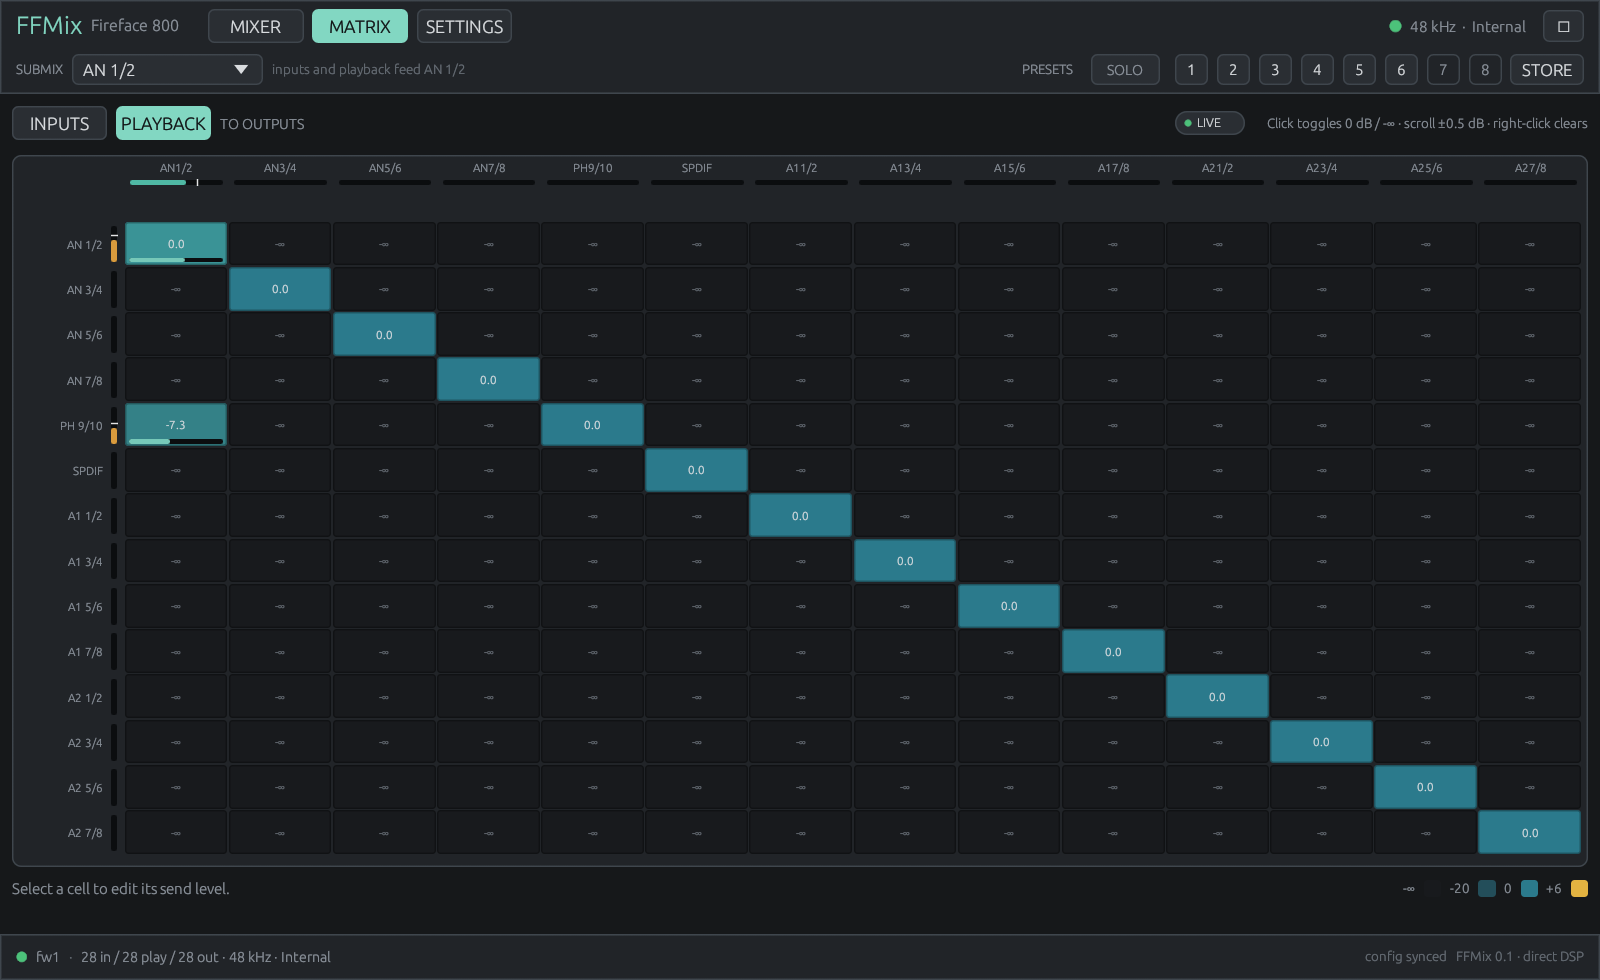
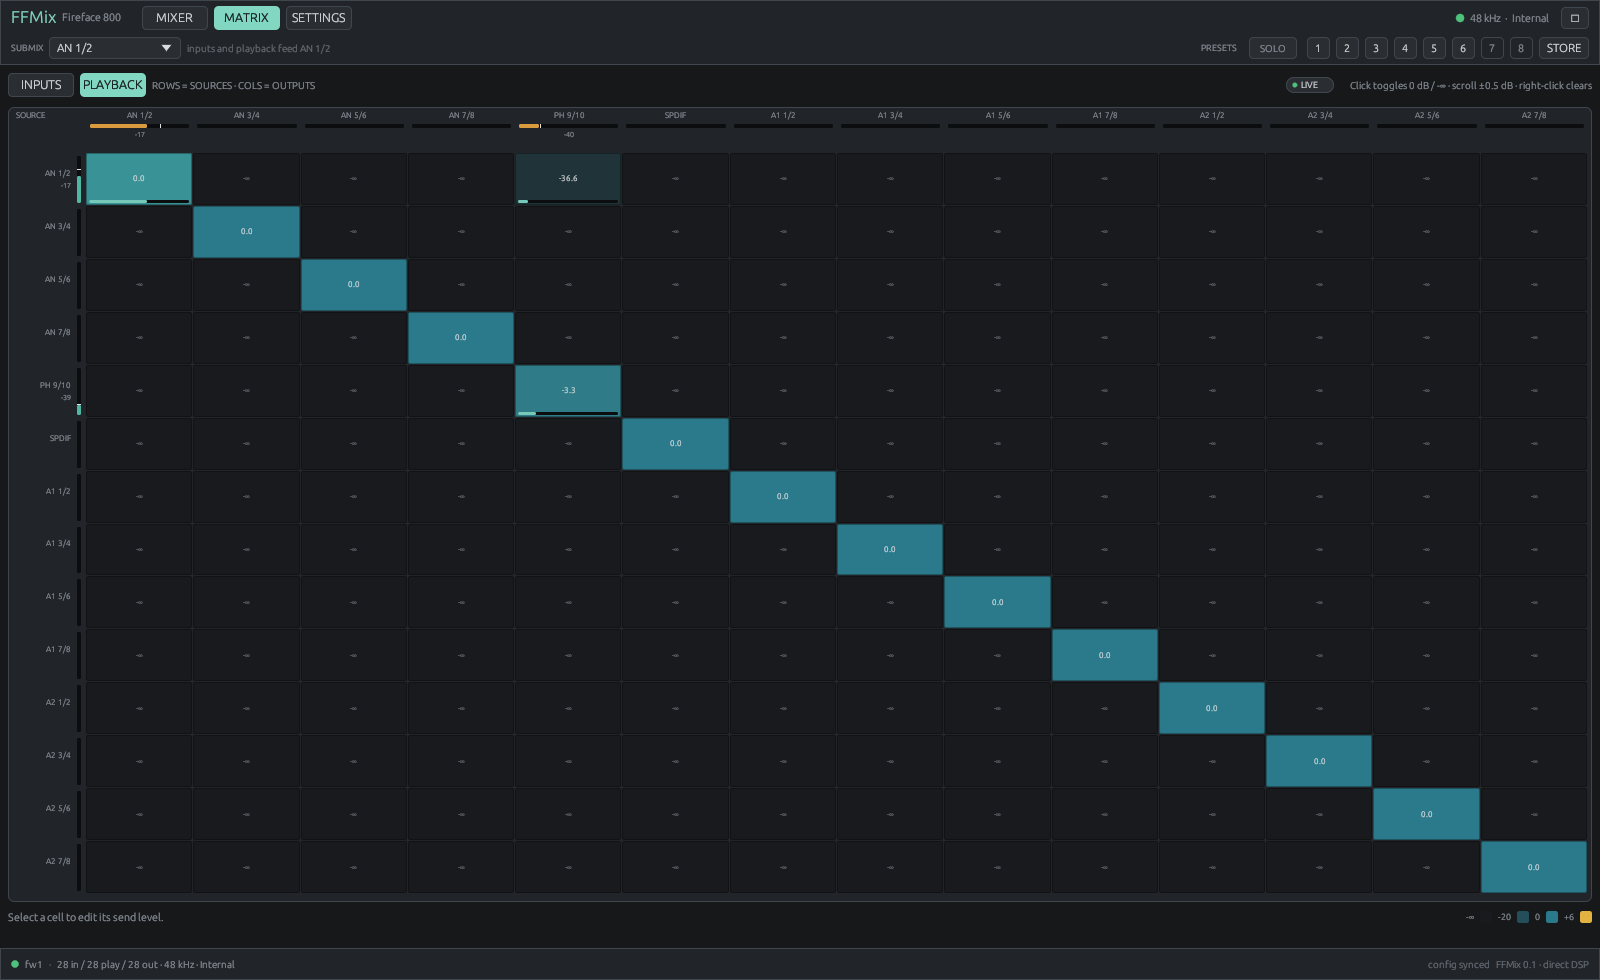
Fix matrix orientation and show source/output levels

diff --git a/src/app.rs b/src/app.rs
@@ -1103,7 +1103,11 @@ impl App {
                     self.mark_config();
                 }
             }
-            ui.label(egui::RichText::new("TO OUTPUTS").size(10.0).color(MUTED));
+            ui.label(
+                egui::RichText::new("ROWS = SOURCES · COLS = OUTPUTS")
+                    .size(10.0)
+                    .color(MUTED),
+            );
             ui.with_layout(egui::Layout::right_to_left(egui::Align::Center), |ui| {
                 ui.label(
                     egui::RichText::new("Click toggles 0 dB / -∞ · scroll ±0.5 dB · right-click clears")
@@ -1138,10 +1142,17 @@ impl App {
         painter.rect_filled(grid_rect, 6.0, PANEL);
         painter.rect_stroke(grid_rect, 6.0, Stroke::new(1.0_f32, BORDER), StrokeKind::Inside);
 
-        // column headers: source level, one bar per source pair
-        for p in 0..npairs {
-            let x = gx + p as f32 * cw;
-            let label = short_pair(self.matrix_kind, p);
+        // column headers: outputs, one level bar per output pair
+        painter.text(
+            Pos2::new(grid_rect.left() + 8.0, grid_rect.top() + 4.0),
+            Align2::LEFT_TOP,
+            "SOURCE",
+            FontId::proportional(8.0),
+            MUTED,
+        );
+        for op in 0..npairs {
+            let x = gx + op as f32 * cw;
+            let label = pair_label(Kind::Out, op);
             painter.text(
                 Pos2::new(x + cw * 0.5, grid_rect.top() + 4.0),
                 Align2::CENTER_TOP,
@@ -1149,54 +1160,23 @@ impl App {
                 FontId::proportional(8.0),
                 MUTED,
             );
-            let level = source_meters.level[2 * p].max(source_meters.level[2 * p + 1]);
-            let hold = source_meters.hold[2 * p].max(source_meters.hold[2 * p + 1]);
-            let clip = source_meters.clip[2 * p] || source_meters.clip[2 * p + 1];
-            let meter_rect = Rect::from_min_size(
-                Pos2::new(x + 4.0, grid_rect.top() + 17.0),
-                Vec2::new((cw - 8.0).max(6.0), 4.0),
-            );
-            draw_h_meter(&painter, meter_rect, level, hold, clip, source_color);
-            let resp = ui.interact(
-                meter_rect,
-                Id::new(("mx-src-meter", self.matrix_kind, p)),
-                Sense::click(),
-            );
-            if resp.clicked() {
-                match self.matrix_kind {
-                    Kind::In => self.meters.input.reset_pair(p),
-                    Kind::Play => self.meters.playback.reset_pair(p),
-                    Kind::Out => {}
-                }
-            }
-            if resp.hovered() {
-                resp.on_hover_text(format!(
-                    "{} source\nLevel  {}\nPeak  {}{}\nClick to reset peak",
-                    pair_label(self.matrix_kind, p),
-                    fmt_level(level),
-                    fmt_level(hold),
-                    if clip { "\nCLIP" } else { "" }
-                ));
-            }
-        }
-        // row headers: output level, one bar per output pair
-        for op in 0..npairs {
-            let y = gy + op as f32 * ch;
-            painter.text(
-                Pos2::new(gx - 15.0, y + ch * 0.5),
-                Align2::RIGHT_CENTER,
-                pair_label(Kind::Out, op),
-                FontId::proportional(8.2),
-                MUTED,
-            );
             let level = output_meters.level[2 * op].max(output_meters.level[2 * op + 1]);
             let hold = output_meters.hold[2 * op].max(output_meters.hold[2 * op + 1]);
             let clip = output_meters.clip[2 * op] || output_meters.clip[2 * op + 1];
             let meter_rect = Rect::from_min_size(
-                Pos2::new(gx - 9.0, y + 3.0),
-                Vec2::new(4.0, (ch - 6.0).max(6.0)),
+                Pos2::new(x + 4.0, grid_rect.top() + 17.0),
+                Vec2::new((cw - 8.0).max(6.0), 4.0),
             );
-            draw_v_meter(&painter, meter_rect, level, hold, clip, widgets::KIND_OUT);
+            draw_h_meter(&painter, meter_rect, level, hold, clip, widgets::KIND_OUT);
+            if cw >= 36.0 && level > 0.001 {
+                painter.text(
+                    Pos2::new(x + cw * 0.5, grid_rect.top() + 23.0),
+                    Align2::CENTER_TOP,
+                    fmt_level_short(level),
+                    FontId::proportional(7.0),
+                    MUTED,
+                );
+            }
             let resp = ui.interact(meter_rect, Id::new(("mx-out-meter", op)), Sense::click());
             if resp.clicked() {
                 self.meters.output.reset_pair(op);
@@ -1210,17 +1190,67 @@ impl App {
                     if clip { "\nCLIP" } else { "" }
                 ));
             }
-            for p in 0..npairs {
-                let x = gx + p as f32 * cw;
+        }
+        // row headers + cells: sources are rows, outputs are columns
+        for sp in 0..npairs {
+            let y = gy + sp as f32 * ch;
+            let label_y = if ch >= 30.0 { y + ch * 0.5 - 6.0 } else { y + ch * 0.5 };
+            painter.text(
+                Pos2::new(gx - 15.0, label_y),
+                Align2::RIGHT_CENTER,
+                pair_label(self.matrix_kind, sp),
+                FontId::proportional(8.2),
+                MUTED,
+            );
+            let level = source_meters.level[2 * sp].max(source_meters.level[2 * sp + 1]);
+            let hold = source_meters.hold[2 * sp].max(source_meters.hold[2 * sp + 1]);
+            let clip = source_meters.clip[2 * sp] || source_meters.clip[2 * sp + 1];
+            if ch >= 30.0 && level > 0.001 {
+                painter.text(
+                    Pos2::new(gx - 15.0, y + ch * 0.5 + 6.0),
+                    Align2::RIGHT_CENTER,
+                    fmt_level_short(level),
+                    FontId::proportional(7.0),
+                    MUTED,
+                );
+            }
+            let meter_rect = Rect::from_min_size(
+                Pos2::new(gx - 9.0, y + 3.0),
+                Vec2::new(4.0, (ch - 6.0).max(6.0)),
+            );
+            draw_v_meter(&painter, meter_rect, level, hold, clip, source_color);
+            let resp = ui.interact(
+                meter_rect,
+                Id::new(("mx-src-meter", self.matrix_kind, sp)),
+                Sense::click(),
+            );
+            if resp.clicked() {
+                match self.matrix_kind {
+                    Kind::In => self.meters.input.reset_pair(sp),
+                    Kind::Play => self.meters.playback.reset_pair(sp),
+                    Kind::Out => {}
+                }
+            }
+            if resp.hovered() {
+                resp.on_hover_text(format!(
+                    "{} source\nLevel  {}\nPeak  {}{}\nClick to reset peak",
+                    pair_label(self.matrix_kind, sp),
+                    fmt_level(level),
+                    fmt_level(hold),
+                    if clip { "\nCLIP" } else { "" }
+                ));
+            }
+            for op in 0..npairs {
+                let x = gx + op as f32 * cw;
                 let cell = Rect::from_min_size(Pos2::new(x, y), Vec2::new(cw - 1.0, ch - 1.0));
-                let (db, db2) = self.matrix_cell(self.matrix_kind, p, op);
+                let (db, db2) = self.matrix_cell(self.matrix_kind, sp, op);
                 let db = match (db, db2) {
                     (None, None) => None,
                     (a, b) => Some(a.unwrap_or(-80.0).max(b.unwrap_or(-80.0))),
                 };
-                let selected = self.matrix_selected == Some((op, p));
+                let selected = self.matrix_selected == Some((sp, op));
                 let fill = cell_color(db);
-                let live = matrix_cell_live(&matrix_gains, self.matrix_kind, p, op, &source_meters);
+                let live = matrix_cell_live(&matrix_gains, self.matrix_kind, sp, op, &source_meters);
                 let activity = widgets::meter_frac(live);
                 painter.rect_filled(cell, 2.0, fill);
                 if activity > 0.005 {
@@ -1264,17 +1294,17 @@ impl App {
                 }
                 let resp = ui.interact(
                     cell,
-                    Id::new(("mx", self.matrix_kind, op, p)),
+                    Id::new(("mx", self.matrix_kind, sp, op)),
                     Sense::click_and_drag(),
                 );
                 if resp.clicked() {
-                    self.matrix_selected = Some((op, p));
+                    self.matrix_selected = Some((sp, op));
                     let new = if db.is_some() { None } else { Some(0.0) };
-                    self.set_matrix_cell(self.matrix_kind, p, op, new);
+                    self.set_matrix_cell(self.matrix_kind, sp, op, new);
                 }
                 if resp.secondary_clicked() {
-                    self.matrix_selected = Some((op, p));
-                    self.set_matrix_cell(self.matrix_kind, p, op, None);
+                    self.matrix_selected = Some((sp, op));
+                    self.set_matrix_cell(self.matrix_kind, sp, op, None);
                 }
                 if resp.hovered() {
                     let scroll = ui.input(|i| i.raw_scroll_delta.y);
@@ -1283,7 +1313,7 @@ impl App {
                         let new = if scroll > 0.0 { (base + 0.5).min(6.0) } else { (base - 0.5).max(-80.0) };
                         self.set_matrix_cell(
                             self.matrix_kind,
-                            p,
+                            sp,
                             op,
                             if new <= -80.0 { None } else { Some(new) },
                         );
@@ -1296,23 +1326,23 @@ impl App {
                         let new = (base - dy * 0.2).clamp(-80.0, 6.0);
                         self.set_matrix_cell(
                             self.matrix_kind,
-                            p,
+                            sp,
                             op,
                             if new <= -80.0 { None } else { Some(new) },
                         );
                     }
                 }
                 if resp.clicked() || resp.secondary_clicked() {
-                    self.matrix_selected = Some((op, p));
+                    self.matrix_selected = Some((sp, op));
                 }
                 if resp.hovered() {
                     let source_level =
-                        source_meters.level[2 * p].max(source_meters.level[2 * p + 1]);
+                        source_meters.level[2 * sp].max(source_meters.level[2 * sp + 1]);
                     let output_level =
                         output_meters.level[2 * op].max(output_meters.level[2 * op + 1]);
                     resp.on_hover_text(format!(
                         "{} -> {}\nSource  {}\nSend gain  {}\nCrosspoint  {} (est., pre-master)\nOutput  {} (post-master)",
-                        pair_label(self.matrix_kind, p),
+                        pair_label(self.matrix_kind, sp),
                         pair_label(Kind::Out, op),
                         fmt_level(source_level),
                         fmt_db(db),
@@ -1330,15 +1360,15 @@ impl App {
         );
         ui.scope_builder(egui::UiBuilder::new().max_rect(inspector), |ui| {
             ui.horizontal(|ui| {
-                if let Some((op, p)) = self.matrix_selected {
-                    let src_name = pair_label(self.matrix_kind, p);
+                if let Some((sp, op)) = self.matrix_selected {
+                    let src_name = pair_label(self.matrix_kind, sp);
                     let out_name = pair_label(Kind::Out, op);
                     ui.label(
-                        egui::RichText::new(format!("{out_name}  ←  {src_name}"))
+                        egui::RichText::new(format!("{out_name}  <-  {src_name}"))
                             .size(11.5)
                             .color(TEXT),
                     );
-                    let (a, b) = self.matrix_cell(self.matrix_kind, p, op);
+                    let (a, b) = self.matrix_cell(self.matrix_kind, sp, op);
                     let cur = a.or(b).unwrap_or(-80.0);
                     let mut v = cur.max(-80.0);
                     let changed = ui
@@ -1350,13 +1380,13 @@ impl App {
                         )
                         .changed();
                     if changed {
-                        self.set_matrix_cell(self.matrix_kind, p, op, Some(v));
+                        self.set_matrix_cell(self.matrix_kind, sp, op, Some(v));
                     }
                     if ui.button("0 dB").clicked() {
-                        self.set_matrix_cell(self.matrix_kind, p, op, Some(0.0));
+                        self.set_matrix_cell(self.matrix_kind, sp, op, Some(0.0));
                     }
                     if ui.button("-∞").clicked() {
-                        self.set_matrix_cell(self.matrix_kind, p, op, None);
+                        self.set_matrix_cell(self.matrix_kind, sp, op, None);
                     }
                 } else {
                     ui.label(
@@ -1972,45 +2002,45 @@ impl eframe::App for App {
         if self.tab == Tab::Matrix && !ctrl && !ctx.input(|i| i.modifiers.shift) {
             let mode = speed_mode(self.status.rate);
             let npairs = (channels(self.matrix_kind, mode).len() / 2).max(1).min(N_PAIRS);
-            let (mut op, mut sp) = self.matrix_selected.unwrap_or((0, 0));
+            let (mut sp, mut op) = self.matrix_selected.unwrap_or((0, 0));
             let key = |k| ctx.input(|i| i.key_pressed(k));
             let mut moved = false;
             if key(egui::Key::ArrowLeft) {
-                sp = (sp + npairs - 1) % npairs;
-                moved = true;
-            }
-            if key(egui::Key::ArrowRight) {
-                sp = (sp + 1) % npairs;
-                moved = true;
-            }
-            if key(egui::Key::ArrowUp) {
                 op = (op + npairs - 1) % npairs;
                 moved = true;
             }
-            if key(egui::Key::ArrowDown) {
+            if key(egui::Key::ArrowRight) {
                 op = (op + 1) % npairs;
                 moved = true;
             }
+            if key(egui::Key::ArrowUp) {
+                sp = (sp + npairs - 1) % npairs;
+                moved = true;
+            }
+            if key(egui::Key::ArrowDown) {
+                sp = (sp + 1) % npairs;
+                moved = true;
+            }
             if moved {
-                self.matrix_selected = Some((op, sp));
+                self.matrix_selected = Some((sp, op));
             }
             let (a, b) = self.matrix_cell(self.matrix_kind, sp, op);
             if key(egui::Key::Enter) || key(egui::Key::Space) {
-                self.matrix_selected = Some((op, sp));
+                self.matrix_selected = Some((sp, op));
                 let new = if a.is_some() || b.is_some() { None } else { Some(0.0) };
                 self.set_matrix_cell(self.matrix_kind, sp, op, new);
             }
             if key(egui::Key::Backspace) || key(egui::Key::Delete) {
-                self.matrix_selected = Some((op, sp));
+                self.matrix_selected = Some((sp, op));
                 self.set_matrix_cell(self.matrix_kind, sp, op, None);
             }
             if key(egui::Key::Plus) || key(egui::Key::Equals) {
-                self.matrix_selected = Some((op, sp));
+                self.matrix_selected = Some((sp, op));
                 let cur = a.or(b).unwrap_or(-80.0);
                 self.set_matrix_cell(self.matrix_kind, sp, op, Some((cur + 0.5).min(6.0)));
             }
             if key(egui::Key::Minus) {
-                self.matrix_selected = Some((op, sp));
+                self.matrix_selected = Some((sp, op));
                 let cur = a.or(b).unwrap_or(-80.0);
                 let new = (cur - 0.5).max(-80.0);
                 self.set_matrix_cell(
@@ -2141,7 +2171,7 @@ fn live_badge(ui: &mut egui::Ui, active: bool) {
         if active { TEXT } else { MUTED },
     );
     resp.on_hover_text(
-        "Columns meter sources, rows meter outputs.\nCell glow estimates source x routed gain before the output master.",
+        "Rows meter sources, columns meter outputs.\nCell glow estimates source x routed gain before the output master.",
     );
 }
 
@@ -2226,8 +2256,11 @@ fn fmt_level(lin: f32) -> String {
     }
 }
 
-fn short_pair(kind: Kind, pair: usize) -> String {
-    pair_label(kind, pair).replace(' ', "")
+fn fmt_level_short(lin: f32) -> String {
+    match lin2db(lin) {
+        Some(db) => format!("{db:.0}"),
+        None => "-∞".to_owned(),
+    }
 }
 
 fn cell_color(db: Option<f32>) -> Color32 {

diff --git a/README.md b/README.md
@@ -77,6 +77,19 @@ ffmix
 You need a Rust toolchain, Linux `firewire-core`, and permission to open the Fireface's
 `/dev/fw*` node (normally your user is in the `audio` group).
 
+### Arch Linux package
+
+A `PKGBUILD` and generated `.SRCINFO` live in [`packaging/arch`](packaging/arch):
+
+```sh
+cd packaging/arch
+makepkg -si
+```
+
+The package installs the binary, desktop entry, icon, license and documentation. A
+prebuilt `ffmix-0.1.1-1-x86_64.pkg.tar.zst` is attached to the
+[v0.1.0 release](https://github.com/hansfbaier/ffmix/releases/tag/v0.1.1).
+
 <details>
 <summary><b>Build dependencies</b></summary>
 
@@ -133,14 +146,15 @@ quits.
   not the device configuration.
 - **Matrix** — inputs → outputs and playback → outputs, 14 × 14 cells. Click toggles
   between 0 dB and -∞, scroll adjusts ±0.5 dB, right-click clears. Arrow keys move the
-  selection, `Enter` toggles, `Backspace` clears, `+`/`-` trim. Columns meter sources,
-  rows meter outputs, and active cells glow and grow a bottom activity bed; hover any
-  cell for source, send, crosspoint and output dBFS.
+  selection, `Enter` toggles, `Backspace` clears, `+`/`-` trim. Rows are sources and
+  columns are outputs, as in TotalMix. Rows meter sources, columns meter outputs, and
+  active cells glow and grow a bottom activity bed; hover any cell for source, send,
+  crosspoint and output dBFS.
 
 ### Matrix metering
 
-The matrix is also a live display. A thin bar under each column head shows that source
-pair's level, and a vertical bar beside each row shows that output pair's post-master
+The matrix is also a live display. A thin bar under each column head shows that output
+pair's post-master level, and a vertical bar beside each row shows that source pair's
 level; both include peak hold and clip caps. Each crosspoint tints and grows a bottom
 activity bar from the source level times its actual routed gain, with mute, solo, pan
 and stereo links folded in, so the signal visibly travels from the active column into
